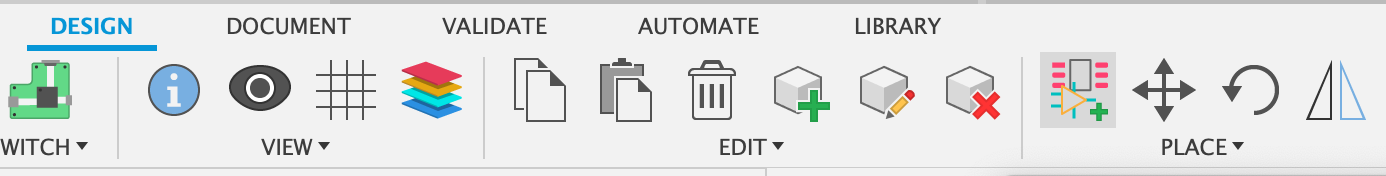
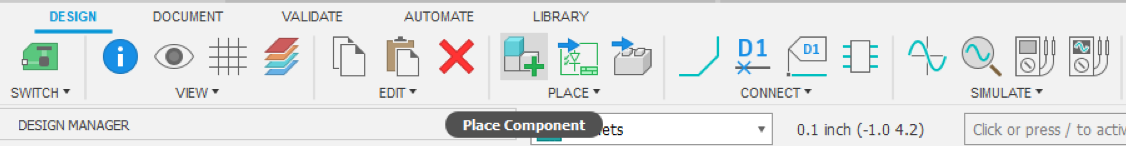
Update tutorial for Fusion 360 update

diff --git a/labs/Introduction-To-Eagle/Creating-A-Schematic.md b/labs/Introduction-To-Eagle/Creating-A-Schematic.md
@@ -4,7 +4,7 @@ This tutorial will take you through the steps of creating a schematic, creating 
 
 We are going to design a PCB with a light controlled by a button.
 
-**The course style guidelines for schematics can be found [here](https://github.com/NVSL/QuadClass-Resources/blob/master/labs/Building-The-Quadcopter-Schematic/README.md#general-schematic-style-guidelines). Read and follow them.  EagleLint will complain if you don't.**
+**The course style guidelines for schematics can be found [here](https://github.com/NVSL/QuadClass-Resources/blob/master/labs/Building-The-Quadcopter-Schematic/README.md#general-schematic-style-guidelines). Read and follow them. EagleLint will complain if you don't.**
 
 You will need the `Lab01.lbr` file available in the lab starter repo.
 
@@ -24,38 +24,38 @@ We need to load the Fusion360 Library that describes the components we are going
 
 ![](images/library1.png)
 
-Click the `Open Library Manager` button and navigate to the `Available` tab:
+Click the `Open Library Manager` button, a window similar to the one below should be shown:
 
 ![](images/library2.png)
 
-Use the `Browse` tool to locate your `Lab01.lbr` file. Once you have loaded it into Fusion 360, it'll be in the list, but it might be hard to find.  Type "lab" into the search box.  It should show up.   Press the `Use` button to enable it.  Close the Library Mananger.
+Use the `Filter results..` search bar to locate your `Lab01.lbr` file. Because you configured the library path to be the one of your starter repo + lbr path at the very beginning, `Lab01.lbr` should be displayed and in use. Otherwise, if you are importing a library that doesn't exist in your library path folder, then click `Import Libraries->Import from local disk` (icon in top rigth corner) and verify that the library is `In Use`. Close the Library Mananger.
 
 ![](images/library3.png)
 
 ## Adding the Parts
 
-Now you are ready to build your schematic. Go back to the `Design` tab and select the `Add Part` tool from the tool palette (or press `a` on your keyboard):
+Now you are ready to build your schematic. Go back to the `Design` tab and select the `Place Component` tool from the tool palette (or press `a` on your keyboard):
 
 ![](images/schematic2_f360.png)
 
-This will open up the library browser. Click on the triangle next to `Lab01` to expand it (if you don't see `Lab01`, select another library and type 'lab'). You’ll see four “devices” inside it. Go read [this page](http://goo.gl/HJtIzp) of the [Adafruit Eagle Parts Tutorial](http://goo.gl/GcM04V) to understand the difference between a schematic “symbol”, a “package”, and a “device.”
+This will open up the library browser in the left sidebar. Under `Place Components`, Select the drop-down menu and replace `All Libraries` to `Lab01`. You’ll see four “devices” now renamed as "components" inside it. (Note: Eagle Legacy documentation) Go read [this page](http://goo.gl/HJtIzp) of the [Adafruit Eagle Parts Tutorial](http://goo.gl/GcM04V) to understand the difference between a schematic “symbol”, a “package”, and a “device.”
 
 ![](images/schematic3_f360.png)
 
-A schematic should have a “frame” around it to contain the size. The frame also include space for documentation about the version and author. To add the frame select `FRAME_B_L` and click “OK”. You can then place your frame
+A schematic should have a “frame” around it to contain the size. The frame also include space for documentation about the version and author. To add the frame double click `FRAME_B_L`. You can then place your frame. Click "ESC" to stop the action.
 
 ![](images/schematic4_f360.png)
 
-Select `2.1MMJACKTHM` from the Add Part menu and press “OK.” You’ll return to the schematic editor with the schematic symbol for the power jack attached to your mouse. Click to put it down somewhere:
+Select `2.1MMJACKTHM` from the menu and double click to add the part. You’ll return to the schematic editor with the schematic symbol for the power jack attached to your mouse. Click to put it down somewhere:
 
 ![](images/schematic5_f360.png)
 
-Save your schematic, so you don’t lose your work. Call the file “throughhole”.
+Save your schematic, so you don’t lose your work (Ctr + S). Call the file “throughhole”. Fusion 360 projects are saved in the cloud, later we will see how to export them locally.
 
-Select the Add Part tool again, and choose the `BUTTON-TACTILE-SQUARE` device. Place it to the right of the power jack.
+Select the `BUTTON-TACTILE-SQUARE` component from the list. Place it to the right of the power jack.
 
-Next, we’ll add the LED. Choose the `LED5MM` device. Place the LED to the left of the power jack.
-Finally, add the resistor. Use the device `RESISTORTH-1/4W-CARBON`.
+Next, we’ll add the LED. Choose the `LED5MM` component. Place the LED to the left of the power jack.
+Finally, add the resistor. Use the component `RESISTORTH-1/4W-CARBON`.
 
 ![](images/schematic6_f360.png)
 
@@ -67,8 +67,10 @@ And click the symbol for the switch a few times. You can do the same for the LED
 
 ![](images/schematic8_f360.png)
 
+Note: You can also rotate the component by selecting the component and then doing a mouse right click.
 
 ## Connecting the Parts
+
 Next, we need to wire up the components. Let’s start by connecting the resistor to the switch. Notice that the switch’s symbol gives a clear picture of how it operates: There is a pair of connected terminals on each side (“P” and “P2” on the left and “S” and “S2” on the right), and when we press the button the two pairs will be connected. We need to connect the resistor to one of the pairs. Select the `Net` tool:
 
 ![](images/schematic9_f360.png)
@@ -83,7 +85,7 @@ Next, connect the other end of the resistor to the cathode of the led (the catho
 
 Finally, we need to connect everything to the power supply. The symbol for the power jack has three connection pins. The top pin will be connected to the tip of the power plug. The other two will be connected to the barrel. So, if the power supply is tip-positive, the top connector will be 5V and the bottom two will be ground (0V).
 
-Connect the anode on the LED to the 5V pin and then connect the pin on the other side of the switch to the ground pin. Just be sure to wire both of the ground pins together (see below). 
+Connect the anode on the LED to the 5V pin and then connect the pin on the other side of the switch to the ground pin. Just be sure to wire both of the ground pins together (see below).
 
 ![](images/schematic12_f360.png)
 
@@ -94,10 +96,10 @@ Finally, rename and label the power and ground nets by typing `name GND` into th
 Now, think through how the schematic will operate and convince yourself that this matches what we build on the breadboard.
 
 ## Running Electrical Rules Check (ERC)
+
 Fusion360 provides a mechanism to do a sanity check on your schematic. It’s called Electrical Rules Check (ERC). Select it from `Validate->ERC`. I recommend running a library update before executing it, which can be found in the `Library` tab next to the library manager.
 
 ![](images/schematic14_f360.png)
-
 
 A window will appear with a list of errors and warnings broken into three categories (note that your window may appear different):
 
@@ -106,6 +108,6 @@ A window will appear with a list of errors and warnings broken into three catego
 1. Errors: Potentially serious errors
 2. Warnings: Potential problems
 3. Approved: These are errors and warnings that you have marked as “ok” using the “Approve” button.
-The warning and error names are a little cryptic, but you can usually figure out what they are getting at. Look at each error and warning and determine if it’s actually a problem. For instance, it may tell that a pin is not connected. If you did not intend to connect the pin, then it’s not an issue. For errors and warnings that are not a problem, click “Approve.” Fusion360 will remember this when you re-run ERC. Fix the errors and warnings that represent real issues.
+   The warning and error names are a little cryptic, but you can usually figure out what they are getting at. Look at each error and warning and determine if it’s actually a problem. For instance, it may tell that a pin is not connected. If you did not intend to connect the pin, then it’s not an issue. For errors and warnings that are not a problem, click “Approve.” Fusion360 will remember this when you re-run ERC. Fix the errors and warnings that represent real issues.
 
 Once you've verified that your design has no errors, you can move on to [Part 2](Creating-A-Board.md)!
